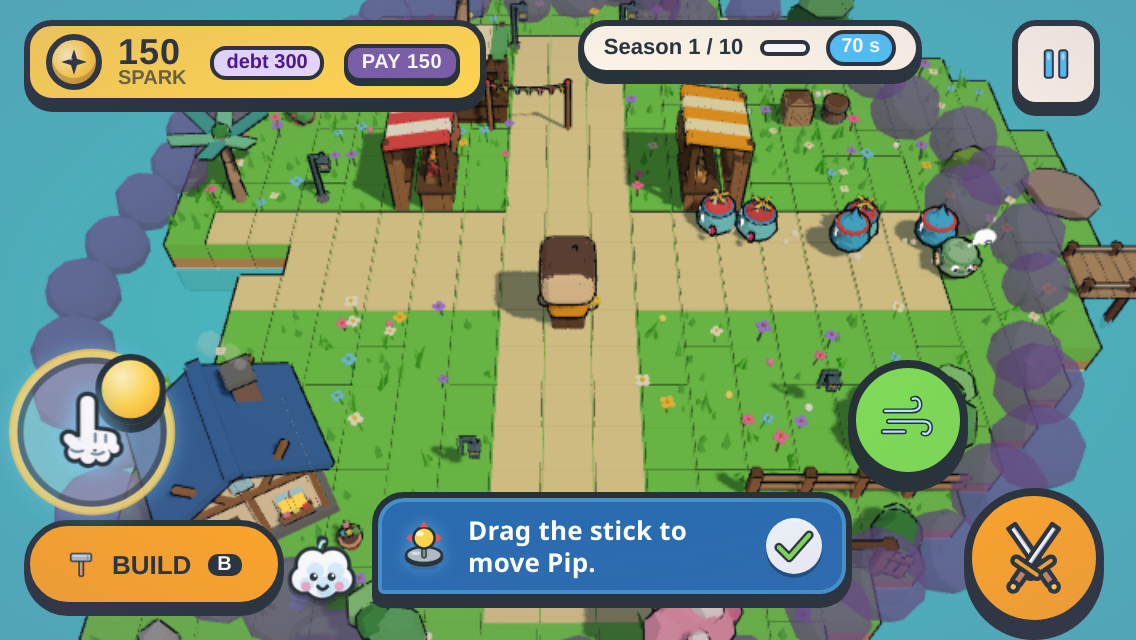
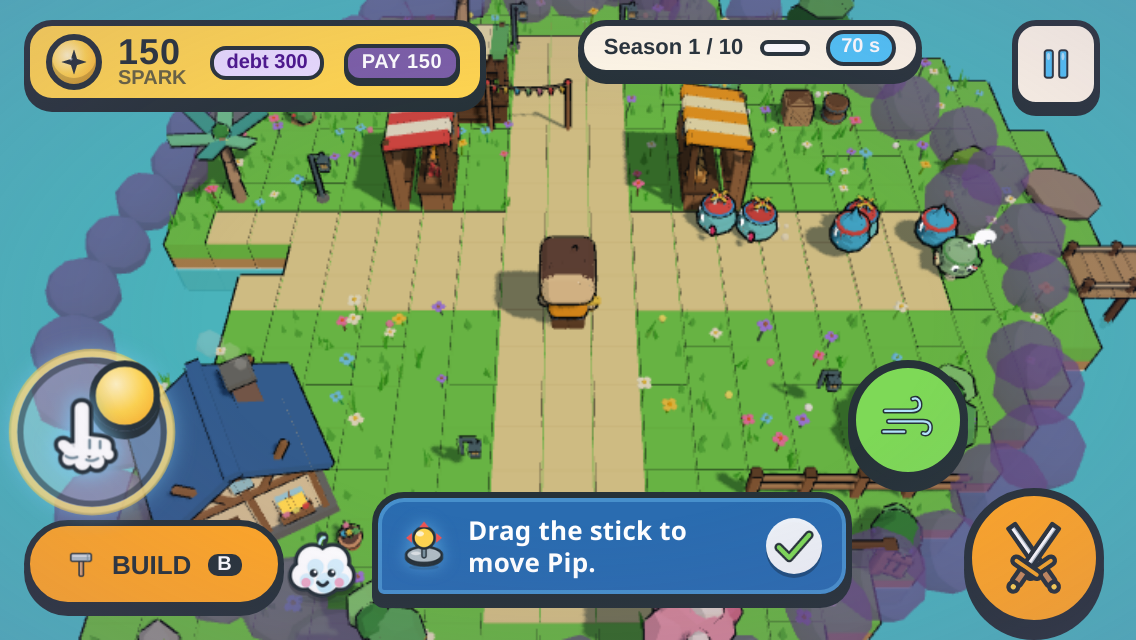
S61: GAME_VERSION S61, README row, HANDOFF

diff --git a/LUMEN/game/src/Game.js b/LUMEN/game/src/Game.js
@@ -769,7 +769,7 @@ function reseatHelpers(sb) {
 //   eco:win / eco:lose     → ending (8B finale lines) → story:finale → endless | title
 //   ui:pause {on, by}      pause reasons are OR-ed (menu ∨ dialogue ∨ ledger ∨ title) into game.paused — the only place that touches it.
 // Nothing here edits a system; it only constructs, routes and owns `lg.state`.
-export const GAME_VERSION = 'S60';   // S60 (2026-11-07): Move card = drawn JOYSTICK demo on touch (cloud hand drags a simulated stick) / WASD keycaps + hand 6 u ahead on desktop (S60-A); the hand follows moving things LIVE and never points at a stale / invisible Stranger spot (S60-B); Owl opening split into 2 short bubbles (S60-C). Previous: S59 (2026-11-07): cloud tutor (Cloud says hello, drawn face_cloud), persistent blue cards + cloud hand pointer, drawn SKIP, jar reminder (jarRemind.js), storm chip icon (stormmark). Previous: S57 (2026-11-07): FUN_PASS T4 — friendly Stranger species (makeStranger, not Collector-shaped) walks in from the pier, strolls the plaza 25-40 s with a bell marker + edge arrow (ui/stranger.js), a sword never resolves them (whiff + owl 'Not an enemy. Talk to them.'), seasons.json strangers marks (S1 fair, S2 scam, then 1-2 per season, >= 1 in 3 fair), FAIRS deals (eco.offerFair), timeout = no penalty/reward. Gate --strangers 5/5. Previous: S56 (2026-11-06): FUN_PASS T2b + T3 — T2b Powers answer every press (hold = guide card on touch + desktop chips, ≤ 8-word answer pill, cooldown/busy/blocked lines, 6 touch chips with 4 dim, Shield/Stomp drain bar, whenHint in data/tutor.json, gate `--powers` 5/5). T3 Crew do visible jobs — src/systems/crewJobs.js: pier walk-in ≤ 3 s, posts (Owl→Save jar, Tortoise→Protect jar, Fox→pier, Mole→stalls, Bee circles busiest stall, Snail wanders + flowers) that need no stall, idle-work loop, payoff pops (+N / −N / +10% / 🛡 N / ! / 🌱) carrying the real numbers, Ledger Crew line, BFS paths, 1 InstancedMesh, gate `--crew` 8/8. S54 (2026-11-06): FUN_PASS T2 Curiosity guide — curiosity.js registry + curiosityWire.js (approach / linger / tap / HOLD / HUD data-guide), queued blue cards with maxShows + doneOn, pause GUIDE codex, tutorCounts in the save. S53 (2026-11-06): FUN_PASS T1 Jars — data/jars.json + jarUnlocks.js (Spend at start · Save on first till sweep · Protect at the storm warning · Invest after the S2 Ledger), tray lists unlocked jars only (NEW tag + tab pulse), tap a far jar → Pip auto-walks + deposits 10 ✦ (hero.inputOverride, 6 s timeout, cancels on stick/pause/modal), save field jarsUnlocked (additive v4) + legacy migration, verb chain deposit step unlocks Save + 'Build the Save jar' hint, FIX CONTINUE re-registers loaded jars (build:loaded), gate `--jars1` 10/10. S52 (2026-11-05): FUN_PASS T0 Debug panel — lg.debug hooks (installDebugHooks: grant/season/day/speed/stranger/wave/event/hire/clearTutor/resetSave/state/dump, n/a stubs for T1/T4/T7), ?debug=1 → src/debug/panel.js (aside#ll-debug, window.LUMEN_DEBUG), gate `--debug` 17/17. S51 (2026-11-04): phase 48 Hush — toasts/hero bark/touch buttons/pre-placed jars/verb chip deleted, blue once-only tutor cards. S50: phase 47 Measure-fix — telemetry counts dialogue time in modalSeconds (47A, PLAY_BUGS 45B-2), PERF.md 167 calls + ≤ 180 budget (47B, 45B-3). S49 (2026-11-04): phase 46 Quiet — comfort by deletion: verb chain waits for the opening dialogue (46A, PLAY_BUGS 45B-1), ?oldtutorial overlay deleted (46B), ?sliders legacy jars flag deleted + itch/GDD jars text fixed (46C). S48 (2026-11-04): phase 45 Ship v3 closed — itch page + 6 ship shots (45A), real-browser funnel + 13 gates + PLAY_BUGS (45B), final zip + Bible S48 (45C). S47 (2026-11-03): phase 44 closed — readable market: ♥/✓/✗ price bubbles + sign tint + E-on-sign price (44A), want bubbles + noStall leave (44B), season demand HOT/COLD fair× + PREFS× + sign glyph (44C), islands = NO (44D)
+export const GAME_VERSION = 'S61';   // S61 (2026-11-07): Move-step joystick demo fits very small phones (<= 360 px tall, no overlap with the card; cloud badge on <= 300 px), locate('ahead') reads screen-up from the camera (src/systems/aheadPoint.js, rotation-safe), notch-safe left offsets in tutor.css (S61-A/B/E). Previous: S60 (2026-11-07): Move card = drawn JOYSTICK demo on touch (cloud hand drags a simulated stick) / WASD keycaps + hand 6 u ahead on desktop (S60-A); the hand follows moving things LIVE and never points at a stale / invisible Stranger spot (S60-B); Owl opening split into 2 short bubbles (S60-C). Previous: S59 (2026-11-07): cloud tutor (Cloud says hello, drawn face_cloud), persistent blue cards + cloud hand pointer, drawn SKIP, jar reminder (jarRemind.js), storm chip icon (stormmark). Previous: S57 (2026-11-07): FUN_PASS T4 — friendly Stranger species (makeStranger, not Collector-shaped) walks in from the pier, strolls the plaza 25-40 s with a bell marker + edge arrow (ui/stranger.js), a sword never resolves them (whiff + owl 'Not an enemy. Talk to them.'), seasons.json strangers marks (S1 fair, S2 scam, then 1-2 per season, >= 1 in 3 fair), FAIRS deals (eco.offerFair), timeout = no penalty/reward. Gate --strangers 5/5. Previous: S56 (2026-11-06): FUN_PASS T2b + T3 — T2b Powers answer every press (hold = guide card on touch + desktop chips, ≤ 8-word answer pill, cooldown/busy/blocked lines, 6 touch chips with 4 dim, Shield/Stomp drain bar, whenHint in data/tutor.json, gate `--powers` 5/5). T3 Crew do visible jobs — src/systems/crewJobs.js: pier walk-in ≤ 3 s, posts (Owl→Save jar, Tortoise→Protect jar, Fox→pier, Mole→stalls, Bee circles busiest stall, Snail wanders + flowers) that need no stall, idle-work loop, payoff pops (+N / −N / +10% / 🛡 N / ! / 🌱) carrying the real numbers, Ledger Crew line, BFS paths, 1 InstancedMesh, gate `--crew` 8/8. S54 (2026-11-06): FUN_PASS T2 Curiosity guide — curiosity.js registry + curiosityWire.js (approach / linger / tap / HOLD / HUD data-guide), queued blue cards with maxShows + doneOn, pause GUIDE codex, tutorCounts in the save. S53 (2026-11-06): FUN_PASS T1 Jars — data/jars.json + jarUnlocks.js (Spend at start · Save on first till sweep · Protect at the storm warning · Invest after the S2 Ledger), tray lists unlocked jars only (NEW tag + tab pulse), tap a far jar → Pip auto-walks + deposits 10 ✦ (hero.inputOverride, 6 s timeout, cancels on stick/pause/modal), save field jarsUnlocked (additive v4) + legacy migration, verb chain deposit step unlocks Save + 'Build the Save jar' hint, FIX CONTINUE re-registers loaded jars (build:loaded), gate `--jars1` 10/10. S52 (2026-11-05): FUN_PASS T0 Debug panel — lg.debug hooks (installDebugHooks: grant/season/day/speed/stranger/wave/event/hire/clearTutor/resetSave/state/dump, n/a stubs for T1/T4/T7), ?debug=1 → src/debug/panel.js (aside#ll-debug, window.LUMEN_DEBUG), gate `--debug` 17/17. S51 (2026-11-04): phase 48 Hush — toasts/hero bark/touch buttons/pre-placed jars/verb chip deleted, blue once-only tutor cards. S50: phase 47 Measure-fix — telemetry counts dialogue time in modalSeconds (47A, PLAY_BUGS 45B-2), PERF.md 167 calls + ≤ 180 budget (47B, 45B-3). S49 (2026-11-04): phase 46 Quiet — comfort by deletion: verb chain waits for the opening dialogue (46A, PLAY_BUGS 45B-1), ?oldtutorial overlay deleted (46B), ?sliders legacy jars flag deleted + itch/GDD jars text fixed (46C). S48 (2026-11-04): phase 45 Ship v3 closed — itch page + 6 ship shots (45A), real-browser funnel + 13 gates + PLAY_BUGS (45B), final zip + Bible S48 (45C). S47 (2026-11-03): phase 44 closed — readable market: ♥/✓/✗ price bubbles + sign tint + E-on-sign price (44A), want bubbles + noStall leave (44B), season demand HOT/COLD fair× + PREFS× + sign glyph (44C), islands = NO (44D)
 // S46 (prev):   // S46 (2026-11-03): phase 43 closed — season scripts (data/seasons.json), 5 novelties (storm/night/baron/picky/raidDouble), rotation S7–10 + endless, NEW chip, save v3.
 // S44 (prev):   // S44 (2026-11-01): BUGFIX speed ×2/×3 + Spark Storm "stretched characters" — JellySpring fixed sub-step 1/120 s + clamp, setSquash clamped [0.3, 2.5]; tests/spring.test.mjs. Game_Bible S44.md in LUMEN_extras/
 // S43 history:   // S43 (2026-11-01): 16B P1 — src/combat/Combat.js 3-hit sword combo (slash1 forehand / slash2 backhand / slash3 spin, power 1/1/2) with input buffering + soft lock-on (≤5 u, ±70°), installCombat(sb) · check.mjs --combat. Game_Bible S43.md in LUMEN_extras/

diff --git a/LUMEN/game/README.md b/LUMEN/game/README.md
@@ -20,6 +20,9 @@ Useful URL flags: `?autoplay` skip the title · `?endless` start in Endless · `
 
 **Controls** — WASD/arrows move · Space/J/Enter hammer/confirm · E/F interact · **B** build menu · Q W E R F G abilities (**tap** W = Bubble Shield, **hold** W = walk; R rotates the ghost while placing) · jars panel: ↩ withdraws half a jar, **PAY BARON** repays debt from the pouch · **T** (or the ⏩ button in the Season pill) cycles time speed 1× → 2× → 3× (resets to 1× on pause, dialogue, season end) · Esc/P pause · Enter/click advances dialogue, 1–4 picks a choice. Touch: left virtual joystick, Attack + Dash buttons, ability chips, ⏸ in the HUD — **tap empty ground = build** (the tray opens with the ghost on that cell) · **walk up to things = use them** (jars un-collapse the panel; the Baron / a pitching Collector talk when you stand still 0.6 s; tap a jar to deposit). Full table in `docs/GDD.md §6`.
 
+## Cloud tutor 3 (S61, 2026-11-07) — version shown in the title menu: `S61 · jam build`
+Small-screen + robustness pass on the S60 Move step. **S61-A** on very small phones (<= 360 px tall: 640x360, 568x320, 480x270, 360x240) the joystick demo shrinks to 72 px and pins to the left margin, so it never touches the tutor card (checked by `tools/play_s61.mjs W H`, boxes + screenshots `tools/shots/s61_*`); on <= 300 px screens the Cloud avatar becomes a small badge on the card corner instead of sitting on the BUILD label. **S61-B** `locate('ahead')` now reads *screen-up from the camera* (`src/systems/aheadPoint.js`, pure + unit-tested; falls back to -z); verified with the camera rotated 0/40/90/180/270 deg. **S61-E (partial)** every left offset of the demo and the card width respect `env(safe-area-inset-left/right)` (notch); a real-device check is still a human step.
+
 ## Cloud tutor 2 (S60, 2026-11-07) — version shown in the title menu: `S60 · jam build`
 Three beginner fixes on top of S59. **S60-A** the first Cloud hand no longer points at Pip's legs: on a phone the Move card draws a **simulated joystick** (base ring + gold knob, same look as the real stick) and the cloud hand presses it and drags it up-right and back, so the player *sees* there is a stick and where to put the thumb (it steps aside the moment the real stick is touched; the plain "drag to move" label yields while it plays); on desktop it shows four **WASD keycaps** (W pulses) and the hand points ~6 u ahead (`locate('ahead')`: land + free cell). New drawn icon `joystick` (procedural -> side-by-side screenshot -> sliced PNG). **S60-B** the hand no longer points at an *invisible Stranger*: moving things (stranger, Collectors, Baron, Pip) are located **live every frame** (`deps.locate`); the x,z snapshot a card carried is only a fallback for static things (jars, stalls); `locate('stranger')` returns null unless they stand in the world (arrive/pitch), so the hand hides and the card closes after 1.2 s. **S60-C** the Owl's opening is two short bubbles (opening = 4 lines: Owl, Owl, Pip, Cloud). Tests: `tests/tutor.test.mjs` 11/11 (+2), `tests/story.test.mjs` 63. Rigs: `tools/play_s60.mjs [desk]`, `play_s60c.mjs`, `probe_s60b.mjs`. Handoff `docs/HANDOFF_S59.md` (top section = S60 IDs).
 

diff --git a/LUMEN/game/docs/HANDOFF_S59.md b/LUMEN/game/docs/HANDOFF_S59.md
@@ -1,3 +1,11 @@
+# HANDOFF S61 (continuation of S60, 2026-11-07) — read this first
+| ID | Ask | Status |
+|---|---|---|
+| S61-A | Joystick demo + card must not touch on very small phones (<= 360 px tall) | DONE: `@media (max-height: 360px)` in ui/tutor.css (72 px stick, left margin, travel via `--tj-dx/--tj-dy`), `@media (max-height: 300px)` Cloud avatar -> corner badge. Rig `node tools/play_s61.mjs W H` prints boxes/overlap: 360x240, 480x270, 568x320, 640x360 all `joyOverlapsCard:false`, shots tools/shots/s61_* |
+| S61-B | `locate('ahead')` may not be screen-up if the camera is rotated | DONE: src/systems/aheadPoint.js (pure) uses camera lookAt - position projected on the ground; Game.js `locateFn` (also exposed as `lg.locate`); tests/tutor.test.mjs now 12/12 (yaw 0/90/180/270, water, building, degenerate camera); browser probe rotates the camera 0/40/90/180/270 and `screenDy > 0` every time, on land |
+| S61-E | Real-device touch-hold + notch safe areas | PARTIAL: CSS now uses `env(safe-area-inset-left/right)` for the stick demo + card max-width. Still needs a human on a real notched phone |
+| env | Sandbox gotcha | /tmp is a 493 MB tmpfs: `mv`/clone of the template through /tmp filled it. Clone straight into /home/user/webapp. The Hono template was parked in /home/user/webapp_template_bak (delete it, it is not part of the game) |
+
 # HANDOFF S60 (user report 2026-11-07) — IDs for you and the next chats
 Grep the ID in code comments (`S60-x`). Keep the game's drawn-icon art style (no font emoji in the game; emoji only in code comments).
 | ID | Ask (user, verbatim intent) | Status |
